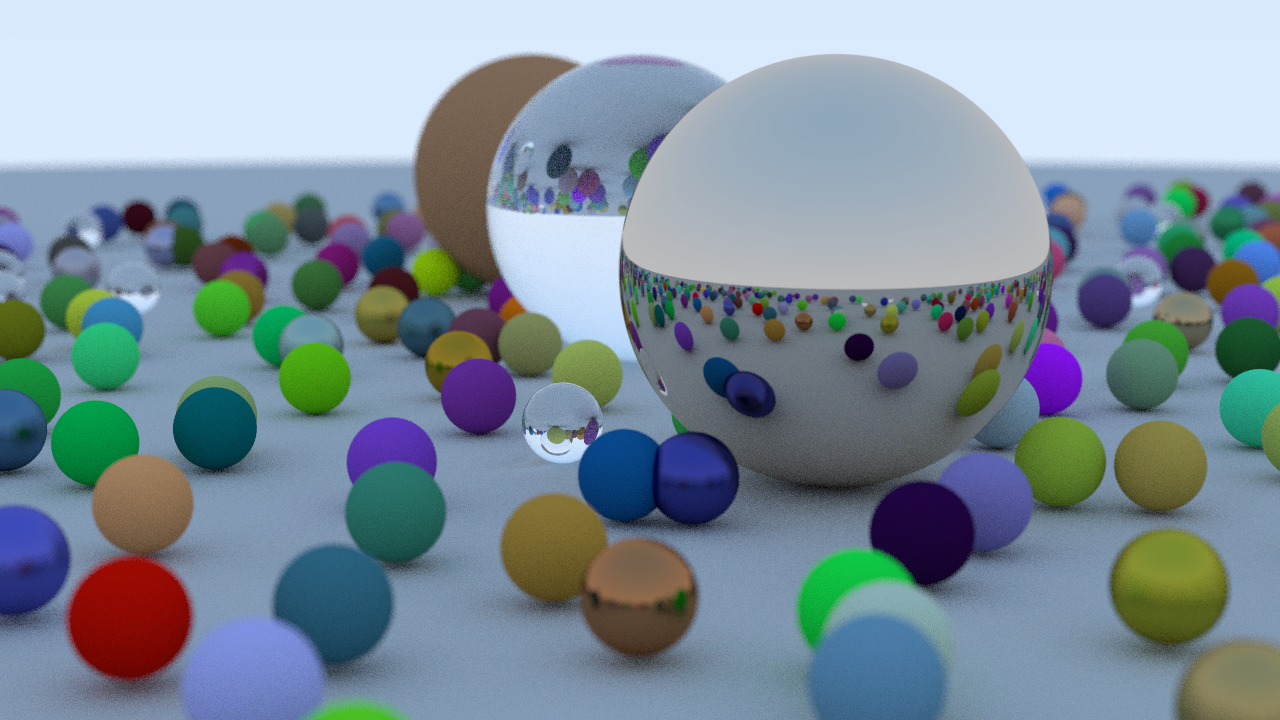
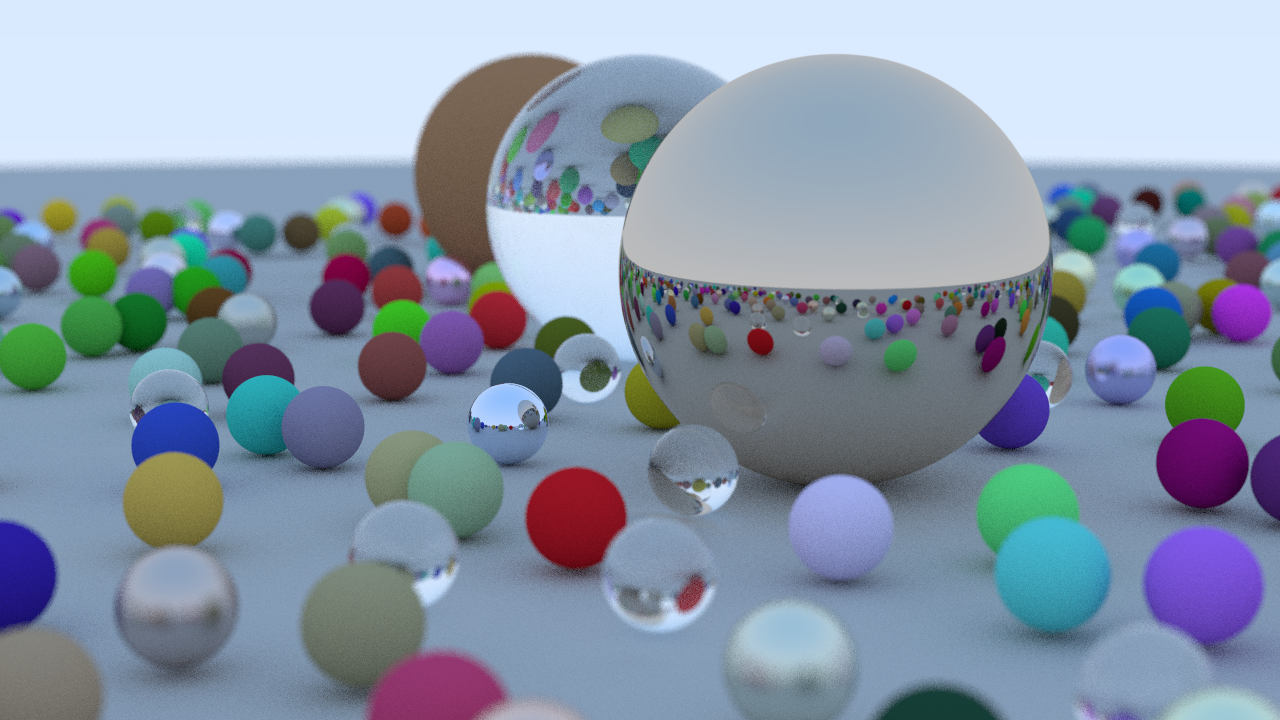
Add a -seed option to get the same scene

diff --git a/main.go b/main.go
@@ -56,6 +56,7 @@ func Main() int { //nolint:funlen // yes but fairly linear.
 	fExit := flag.Bool("exit", false,
 		"Not interactive (no raw), and exit immediately after rendering the image once (for timing purposes)")
 	fSave := flag.String("save", "", "Save the rendered image to the specified PNG file")
+	fSceneSeed := flag.Uint64("seed", 0, "Seed for the random scene generation (0 randomizes each time)")
 	cli.Main()
 	if *fCPUProfile != "" {
 		f, err := os.Create(*fCPUProfile)
@@ -95,7 +96,12 @@ func Main() int { //nolint:funlen // yes but fairly linear.
 	var resized *image.RGBA
 	showSplash := normalRawMode
 	fname := *fSave
-	rand := ray.NewRandomSource()
+	var rand ray.Rand
+	if *fSceneSeed != 0 {
+		rand = ray.NewRand(*fSceneSeed)
+	} else {
+		rand = ray.NewRandomSource()
+	}
 	scene := ray.RichScene(rand)
 	ap.OnResize = func() error {
 		ap.ClearScreen()

diff --git a/ray/objects.go b/ray/objects.go
@@ -151,7 +151,7 @@ func RichScene(rand Rand) *Scene {
 					world.Objects = append(world.Objects, &Sphere{Center: center, Radius: 0.2, Mat: sphereMaterial})
 				case chooseMat < 0.95:
 					// metal
-					albedo := SMul(Random[ColorF](rand), 0.5)
+					albedo := RandomInRange[ColorF](rand, Interval{0.5, 1.0})
 					fuzz := rand.Float64() * 0.5
 					sphereMaterial = Metal{Albedo: albedo, Fuzz: fuzz}
 					world.Objects = append(world.Objects, &Sphere{Center: center, Radius: 0.2, Mat: sphereMaterial})

diff --git a/ray/rand.go b/ray/rand.go
@@ -16,6 +16,11 @@ func NewRandomSource() Rand {
 	return Rand{rng: rand.New(rand.NewPCG(rand.Uint64(), rand.Uint64()))}
 }
 
+func NewRand(seed uint64) Rand {
+	//nolint:gosec // not crypto use.
+	return Rand{rng: rand.New(rand.NewPCG(0, seed))}
+}
+
 func (r Rand) Float64() float64 {
 	return r.rng.Float64()
 }

diff --git a/ray/camera_test.go b/ray/camera_test.go
@@ -177,7 +177,7 @@ func TestCamera_GetRay_PixelCenter(t *testing.T) {
 	}
 	camera.Initialize(10, 10) // 10x10 image
 
-	rng := NewRandomSource()
+	rng := NewRand(42)
 
 	// Get ray for pixel (5, 5) with offset (0, 0) - should be exact center
 	ray := camera.GetRay(rng, 5, 5, 0.0, 0.0)

diff --git a/README.md b/README.md
@@ -23,6 +23,8 @@ Current demo scene
 
 ![Example](example.png)
 
+(Created using `tray -save example.png -r 64 -s 8 -d 50 -seed 2 > /tmp/example.ansi` on a 160x45 terminal.
+It does take a while, 3 minutes on 11 core M3 pro)
 
 ## Install
 You can get the binary from [releases](https://github.com/fortio/tray/releases)
